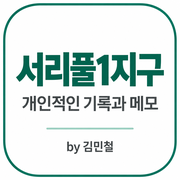
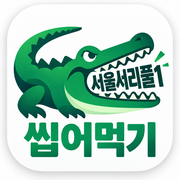
Add files via upload

diff --git a/index.html b/index.html
@@ -1,6 +1,6 @@
 <!DOCTYPE html>
 
-<html lang="ko"><head><meta charset="utf-8"/><meta content="width=device-width, initial-scale=1, viewport-fit=cover" name="viewport"/><title>서리풀1지구, 개인적인 기록과 메모</title><meta content="서리풀1지구 발표 이후 새정이마을을 둘러싼 대책위원회 활동, 행정소송, 보상·이주대책, 각종 검토와 개인 메모를 시간의 흐름에 따라 정리한 기록입니다." name="description"/><meta content="website" property="og:type"/><meta content="ko_KR" property="og:locale"/><meta content="서리풀1지구, 개인적인 기록과 메모" property="og:title"/><meta content="서리풀1지구 발표 이후 새정이마을을 둘러싼 대책위원회 활동, 행정소송, 보상·이주대책, 각종 검토와 개인 메모를 시간의 흐름에 따라 정리한 기록입니다." property="og:description"/><meta content="share.jpg" property="og:image"/><meta content="image/jpeg" property="og:image:type"/><meta content="1536" property="og:image:width"/><meta content="1074" property="og:image:height"/><meta content="summary_large_image" name="twitter:card"/><meta content="서리풀1지구, 개인적인 기록과 메모" name="twitter:title"/><meta content="서리풀1지구 발표 이후 새정이마을을 둘러싼 대책위원회 활동, 행정소송, 보상·이주대책, 각종 검토와 개인 메모를 시간의 흐름에 따라 정리한 기록입니다." name="twitter:description"/><meta content="share.jpg" name="twitter:image"/><meta content="#087f6b" name="theme-color"/><meta content="새정이마을 주민대책위원회" name="application-name"/><meta content="새정이마을 주민대책위원회" name="apple-mobile-web-app-title"/><meta content="yes" name="apple-mobile-web-app-capable"/><meta content="default" name="apple-mobile-web-app-status-bar-style"/><style>
+<html lang="ko"><head><meta charset="utf-8"/><meta content="width=device-width, initial-scale=1, viewport-fit=cover" name="viewport"/><title>서울서리풀1 씹어먹기</title><meta content="서울서리풀1지구의 보상부터 이주대책, 토지이용계획, 행정소송, 주요 일정까지 한곳에 정리한 개인 기록·분석입니다." name="description"/><meta content="website" property="og:type"/><meta content="ko_KR" property="og:locale"/><meta content="서울서리풀1 씹어먹기" property="og:title"/><meta content="서울서리풀1지구의 보상부터 이주대책, 토지이용계획, 행정소송, 주요 일정까지 한곳에 정리한 개인 기록·분석입니다." property="og:description"/><meta content="share.png" property="og:image"/><meta content="image/png" property="og:image:type"/><meta content="1074" property="og:image:width"/><meta content="1074" property="og:image:height"/><meta content="summary_large_image" name="twitter:card"/><meta content="서울서리풀1 씹어먹기" name="twitter:title"/><meta content="서울서리풀1지구의 보상부터 이주대책, 토지이용계획, 행정소송, 주요 일정까지 한곳에 정리한 개인 기록·분석입니다." name="twitter:description"/><meta content="share.png" name="twitter:image"/><meta content="#087f6b" name="theme-color"/><meta content="서울서리풀1 씹어먹기" name="application-name"/><meta content="서울서리풀1 씹어먹기" name="apple-mobile-web-app-title"/><meta content="yes" name="apple-mobile-web-app-capable"/><meta content="default" name="apple-mobile-web-app-status-bar-style"/><style>
 :root{--bg:#f5f7fb;--card:#fff;--text:#172033;--muted:#667085;--line:#e5e7eb;--accent:#2347d9;--soft:#eef2ff;--shadow:0 8px 24px rgba(17,24,39,.07)}
 *{box-sizing:border-box}html{scroll-behavior:smooth}body{margin:0;background:var(--bg);color:var(--text);font-family:-apple-system,BlinkMacSystemFont,"Noto Sans KR","Segoe UI",sans-serif}.wrap{max-width:760px;margin:0 auto;padding:28px 16px 50px}.header{text-align:center;margin-bottom:18px}.header h1{font-size:27px;line-height:1.3;margin:0 0 8px;letter-spacing:-.5px}.header .sub{font-size:13px;color:var(--muted);line-height:1.65}.card{background:var(--card);border:1px solid var(--line);border-radius:18px;padding:18px;box-shadow:var(--shadow);margin-bottom:14px}.section-title{font-size:16px;font-weight:900;margin:0 0 12px}.activityIntro{font-size:13px;line-height:1.75;color:var(--text)}.activitySummary{display:grid;grid-template-columns:repeat(2,1fr);gap:9px;margin-top:12px}.infoBox{border:1px solid var(--line);border-radius:13px;padding:13px;background:#fafbfc;min-height:84px}.infoBox .k{font-size:11px;color:var(--muted);margin-bottom:5px}.infoBox .v{font-size:18px;font-weight:900;line-height:1.25}.infoBox .s{font-size:11px;color:var(--muted);margin-top:4px;line-height:1.45}.timeline{position:relative;margin-top:4px}.timeline:before{content:"";position:absolute;left:11px;top:8px;bottom:8px;width:2px;background:#dbe2ea}.timelineItem{position:relative;padding:0 0 18px 34px}.timelineItem:last-child{padding-bottom:0}.timelineDot{position:absolute;left:5px;top:5px;width:14px;height:14px;border-radius:50%;background:#2FAF8F;border:3px solid #e8f7f2;box-sizing:content-box}.timelineDate{font-size:12px;font-weight:900;color:#2b6f60;margin-bottom:4px}.timelineTitle{font-size:15px;font-weight:900;line-height:1.4;margin-bottom:5px}.timelineText{font-size:13px;line-height:1.7;color:#475467}.timelineTag{display:inline-block;margin-top:7px;padding:4px 8px;border-radius:999px;background:#f2f4f7;color:#667085;font-size:10px;font-weight:800}.activityPhase{margin:2px 0 12px;padding:9px 11px;border-radius:10px;background:#eef7f4;color:#216c5b;font-size:12px;font-weight:900}.infoCallout{margin-top:12px;padding:13px;border-radius:13px;background:var(--soft);font-size:13px;line-height:1.7}.tabs{display:grid;grid-template-columns:repeat(3,minmax(0,1fr));gap:8px;margin:0 0 16px;padding:5px;background:#e9edf5;border:1px solid #dfe4ec;border-radius:14px}.tabBtn{appearance:none;border:0;border-radius:10px;background:transparent;color:#667085;padding:11px 10px;font-size:14px;font-weight:900;cursor:pointer;transition:.18s ease}.tabBtn.active{background:#fff;color:var(--accent);box-shadow:0 2px 8px rgba(17,24,39,.08)}.tabBtn:focus-visible{outline:3px solid rgba(35,71,217,.18);outline-offset:2px}.tabPanel{display:none}.tabPanel.active{display:block}.emptyState{padding:30px 18px;text-align:center;color:var(--muted);font-size:13px;line-height:1.7}.emptyState b{display:block;color:var(--text);font-size:16px;margin-bottom:7px}.toTop{position:fixed;right:12px;bottom:20px;width:38px;height:38px;border:1px solid #cbd5e1;border-radius:50%;background:rgba(255,255,255,.95);color:#64748b;font-size:20px;display:flex;align-items:center;justify-content:center;cursor:pointer;box-shadow:0 2px 8px rgba(0,0,0,.08)}
 @media(max-width:560px){.wrap{padding:20px 12px 44px}.header h1{font-size:23px}.activitySummary{grid-template-columns:1fr 1fr}.timelineTitle{font-size:14px}.timelineText{font-size:12.5px}.card{padding:16px;border-radius:16px}}
@@ -619,6 +619,33 @@
 }
 
 /* 첫 화면 게시판 — 주요 예상 일정과 동일한 섹션 레벨 */
+
+/* 2026-09-28: 서울서리풀1 씹어먹기 홈 브랜드 로고 */
+#homePanel .homeBrandLogo{
+  display:flex;
+  justify-content:center;
+  align-items:center;
+  margin:0 auto 14px;
+  padding:3px 0 1px;
+}
+#homePanel .homeBrandLogo img{
+  display:block;
+  width:158px;
+  height:158px;
+  max-width:44vw;
+  max-height:44vw;
+  object-fit:contain;
+}
+@media(max-width:560px){
+  #homePanel .homeBrandLogo{margin-bottom:12px;}
+  #homePanel .homeBrandLogo img{
+    width:142px;
+    height:142px;
+    max-width:42vw;
+    max-height:42vw;
+  }
+}
+
 #homePanel .homeBoardShortcut{
   width:100%;
   margin:2px 0 12px;
@@ -2434,9 +2461,9 @@ window.SAEJEONGI_AUTH_CONFIG={
   <div class="authWrap">
     <button class="authModalClose" id="authModalClose" type="button" aria-label="로그인 창 닫기">×</button>
     <div class="authBrand">
-      <h1>서리풀1지구, 개인적인 기록과 메모</h1>
+      <h1>서울서리풀1 씹어먹기</h1>
       <div class="creatorLine">by 김민철</div>
-      <p class="loginSiteDesc">서리풀1지구 발표 이후 새정이마을을 둘러싼 대책위원회 활동, 행정소송, 보상·이주대책, 각종 검토와 개인 메모를 시간의 흐름에 따라 정리한 기록입니다.</p>
+      <p class="loginSiteDesc">서울서리풀1지구의 보상부터 이주대책, 토지이용계획, 행정소송, 주요 일정까지 한곳에 정리한 개인 기록·분석입니다.</p>
       <p>승인된 회원만 로그인할 수 있습니다.</p>
     </div>
     <div class="authCard">
@@ -2522,7 +2549,7 @@ window.SAEJEONGI_AUTH_CONFIG={
   <button class="sideMenuOpen" id="sideMenuOpen" type="button" aria-label="메뉴 열기" aria-controls="sideMenuDrawer" aria-expanded="false">☰</button>
   <div class="memberBarInfo">
     <div class="memberBarName" id="memberBarName">로그인 전 미리보기</div>
-    <div class="memberBarSub">서리풀1지구, 개인적인 기록과 메모 · by 김민철</div>
+    <div class="memberBarSub">서울서리풀1 씹어먹기 · by 김민철</div>
   </div>
   <div class="memberBarActions">
     <button class="memberHome" id="memberHome" type="button" aria-label="전체 메뉴로 이동" title="홈">
@@ -2593,6 +2620,9 @@ window.SAEJEONGI_AUTH_CONFIG={
 
 
 <section class="tabPanel active" id="homePanel" role="tabpanel" aria-label="전체 메뉴">
+<div class="homeBrandLogo" aria-label="서울서리풀1 씹어먹기">
+  <img src="app-logo.png" alt="서울서리풀1 씹어먹기 로고" width="512" height="512" loading="eager"/>
+</div>
 <section class="homeBoardShortcut" aria-label="최근 소식과 검토사항">
   <div class="homeBoardHeader">
     <h2 class="homeBoardTitle">최근 소식과 검토사항</h2>
